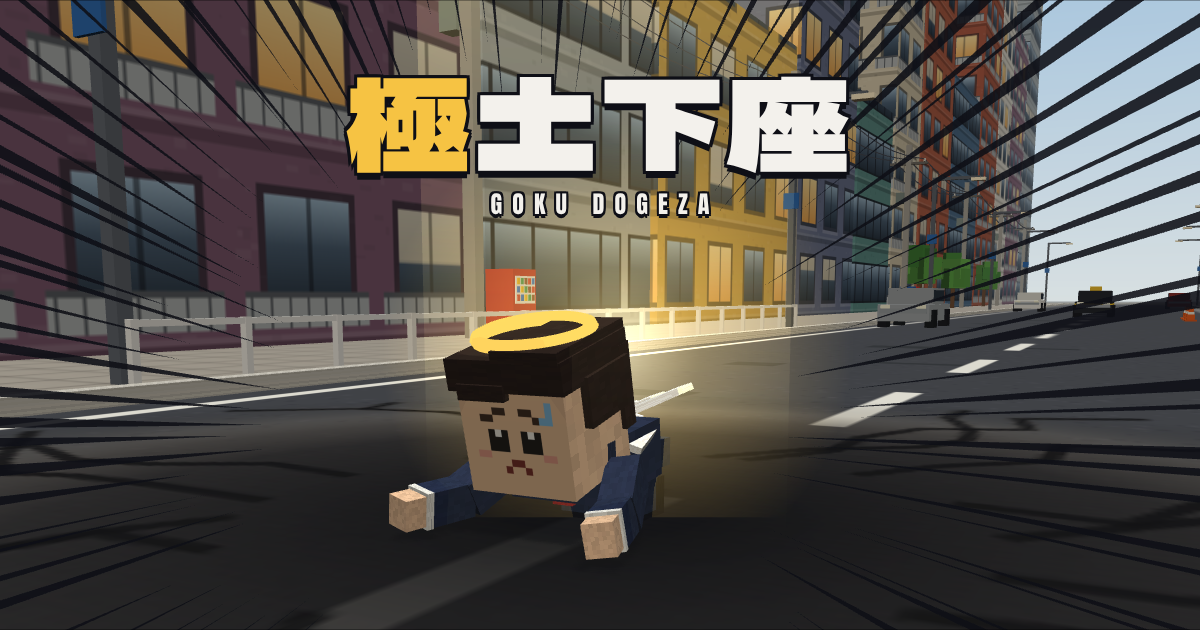
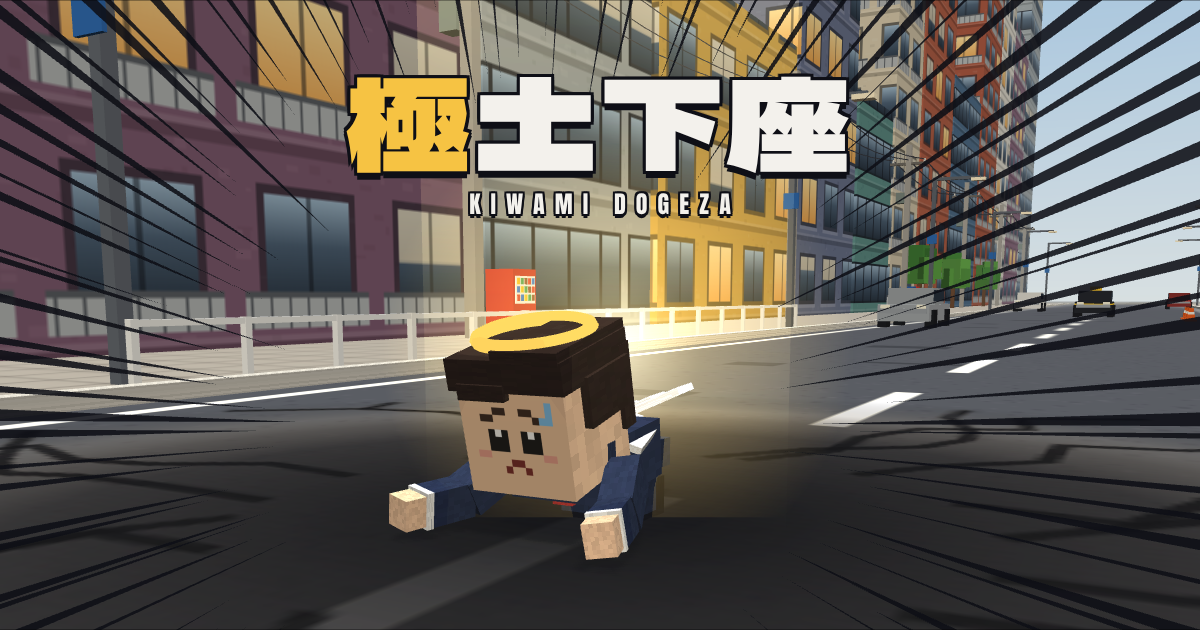
極土下座: iPhoneで動画が作成中のまま止まる問題を修正、作成中表示をループアニメに、英語表記をKIWAMI DOGEZAに
Claude-Session: https://claude.ai/code/session_014CPhRxmCdwCBmx7QtmJSFy

diff --git a/public/apps/goku-dogeza/index.html b/public/apps/goku-dogeza/index.html
@@ -53,7 +53,7 @@ button{font:inherit;color:inherit}
 .btn.primary{background:var(--gold)}
 .btn.small{font-size:14px;padding:8px 12px;min-width:0;box-shadow:0 3px 0 var(--ink)}
 .btn[disabled]{opacity:.45}
-.btn.wait,.btn.wait[disabled]{opacity:1;color:var(--paper);background:linear-gradient(90deg,#6b5520 var(--p,0%),#2c3044 var(--p,0%));box-shadow:0 3px 0 var(--ink);font-size:14px;letter-spacing:0}
+.btn.wait,.btn.wait[disabled]{opacity:1;color:var(--paper);background:linear-gradient(90deg,#6b5520 var(--p,0%),#2c3044 var(--p,0%));box-shadow:0 3px 0 var(--ink);font-size:13px;letter-spacing:0;position:relative;overflow:hidden;display:flex;align-items:center;justify-content:center;gap:6px;white-space:nowrap;padding-left:6px;padding-right:6px}.btn.wait>span{white-space:nowrap}.wdots{letter-spacing:-1px;display:inline-block;width:1.1em;text-align:left}.btn.wait::after{content:'';position:absolute;inset:0;background:linear-gradient(100deg,transparent 35%,rgba(255,255,255,.16) 50%,transparent 65%);background-size:250% 100%;animation:wshim 1.4s linear infinite;pointer-events:none}@keyframes wshim{from{background-position:120% 0}to{background-position:-120% 0}}.wspin{width:14px;height:14px;border:2.5px solid rgba(255,255,255,.28);border-top-color:#ffcc33;border-radius:50%;animation:wspin .8s linear infinite;flex:none;box-sizing:border-box}@keyframes wspin{to{transform:rotate(360deg)}}.wdots b{display:inline-block;font-weight:inherit;animation:wdot 1.2s ease-in-out infinite}.wdots b:nth-child(2){animation-delay:.2s}.wdots b:nth-child(3){animation-delay:.4s}@keyframes wdot{0%,60%,100%{opacity:.25;transform:translateY(0)}30%{opacity:1;transform:translateY(-3px)}}
 /* title */
 #scrTitle{justify-content:space-between}
 #scrCharge{pointer-events:auto;touch-action:none;cursor:pointer}
@@ -213,7 +213,7 @@ textarea.inp{resize:none;line-height:1.6}
 
   <section id="scrTitle" class="scr">
     <button class="btn small howbtn" id="btnHow" type="button">遊び方</button>
-    <div class="logo"><h1 class="ol"><b>極</b>土下座</h1><p class="sub ol2">GOKU DOGEZA</p></div>
+    <div class="logo"><h1 class="ol"><b>極</b>土下座</h1><p class="sub ol2">KIWAMI DOGEZA</p></div>
     <div class="tbottom">
       <div class="sin"><span class="lab">謝罪文</span><span class="txt" id="apoTxt">おまかせ</span><button class="btn small" id="btnApo" type="button">書く</button></div>
       <div class="tbtns"><button class="btn" id="btnFace" type="button">キャラを作る</button><button class="btn primary" id="btnStart" type="button">謝罪する</button></div>
@@ -344,7 +344,7 @@ textarea.inp{resize:none;line-height:1.6}
 <script>
 'use strict';
 /* =========================================================
-   極土下座  GOKU DOGEZA
+   極土下座  KIWAMI DOGEZA
    Three.js r128 / WebAudio / MediaRecorder
    ========================================================= */
 const $=s=>document.querySelector(s);
@@ -973,14 +973,16 @@ function recStart(){
     const st=REC.cv.captureStream(30);
     if(recDest){const at=recDest.stream.getAudioTracks()[0];if(at)st.addTrack(at);}
     REC.mime=recMime();
-    REC.mr=new MediaRecorder(st,REC.mime?{mimeType:REC.mime,videoBitsPerSecond:4500000}:undefined);
+    try{REC.mr=new MediaRecorder(st,REC.mime?{mimeType:REC.mime,videoBitsPerSecond:4500000}:undefined);}catch(e){REC.mr=new MediaRecorder(st);}
     REC.chunks=[];REC.mr.ondataavailable=e=>{if(e.data&&e.data.size)REC.chunks.push(e.data);};
     const tok=REC.tok;
-    REC.mr.onstop=()=>{if(tok!==REC.tok)return;const type=(REC.mr&&REC.mr.mimeType)||REC.mime||'video/webm';REC.raw=new Blob(REC.chunks,{type});REC.ext=type.indexOf('mp4')>=0?'mp4':'webm';REC.cap=false;buildHighlight(tok);};
+    REC.fin=false;REC.mr.onstop=()=>recFinalize(tok);REC.mr.onerror=()=>{REC.on=false;recFinalize(tok);};
     REC.t0=AC?AC.currentTime:performance.now()/1000;REC.cap=!!AC;
     REC.mr.start(250);REC.on=true;REC.flash=0;
   }catch(e){REC.on=false;REC.mr=null;}
 }
+/* 録画の後始末（onstopが来ない端末でも必ず一度だけ編集へ進む） */
+function recFinalize(tok){if(tok!==REC.tok||REC.fin)return;REC.fin=true;REC.on=false;const type=(REC.mr&&REC.mr.mimeType)||REC.mime||'video/webm';REC.raw=new Blob(REC.chunks,{type});REC.ext=type.indexOf('mp4')>=0?'mp4':'webm';REC.cap=false;buildHighlight(tok);}
 /* 見せ場の判定（区間はwithHL・リプレイ・リザルトで定義） */
 function recWant(){
   if(STATE==='perform'){const s=PF.segs[PF.i];return !!(s&&s.hl&&s.hl.some(w=>PF.t>=w[0]&&PF.t<=w[1]));}
@@ -990,7 +992,10 @@ function recWant(){
 function recTick(dt){if(!REC.on||!REC.mr)return;recDraw();const w=recWant(),t=recNow();
   if(w&&!REC.cur)REC.cur=[t,t];if(REC.cur){REC.cur[1]=t;if(!w){REC.marks.push(REC.cur);REC.cur=null;}}
   if(t>120)recStop();}
-function recStop(){if(REC.cur){REC.marks.push(REC.cur);REC.cur=null;}REC.on=false;if(REC.mr&&REC.mr.state!=='inactive'){try{REC.mr.stop();}catch(e){}}}
+function recStop(){if(REC.cur){REC.marks.push(REC.cur);REC.cur=null;}REC.on=false;if(!REC.mr||REC.fin)return;const tok=REC.tok;
+  if(REC.mr.state==='inactive'){recFinalize(tok);return;}
+  try{REC.mr.stop();}catch(e){recFinalize(tok);return;}
+  setTimeout(()=>recFinalize(tok),4000);}
 function pcmSlice(a,b){if(!AC||!REC.pL.length||REC.pcm0<-1e5)return null;const sr=AC.sampleRate,base=REC.pcm0<0?0:REC.pcm0;
   const total=REC.pL.reduce((n,c)=>n+c.length,0),s0=Math.max(0,Math.round((a-base)*sr)),s1=Math.min(total,Math.round((b-base)*sr));if(s1-s0<64)return null;
   const buf=AC.createBuffer(2,s1-s0,sr),L=buf.getChannelData(0),R=buf.getChannelData(1);let off=0,w=0;
@@ -999,6 +1004,7 @@ function pcmSlice(a,b){if(!AC||!REC.pL.length||REC.pcm0<-1e5)return null;const s
 /* 本番の全編録画から見せ場だけを切り出して、15秒以内の動画に編集し直す */
 async function buildHighlight(tok){
   const raw=REC.raw;if(!raw||!raw.size){onVideoReady();return;}
+  let fin=false;const wd=setTimeout(()=>{if(fin||tok!==REC.tok)return;fin=true;REC.tok++;REC.blob=raw;REC.editErr='timeout';onVideoReady();},25000);
   const marks=REC.marks.filter(m=>m[1]-m[0]>0.12).map(m=>[m[0],m[1]]);
   if(!marks.length){REC.blob=raw;onVideoReady();return;}
   // 尺の調整：①前半の各カットを比例で詰める（最短0.45秒）②リザルトは頭側だけ詰める（ドドン以降は守る）③それでも長ければ古いカットから落とす
@@ -1016,7 +1022,7 @@ async function buildHighlight(tok){
     if(!REC.ecv){REC.ecv=cvs(540,960);REC.ecx=REC.ecv.getContext('2d');}
     const ex=REC.ecx,st=REC.ecv.captureStream(30);let dest=null;
     if(AC&&REC.pL.length){dest=AC.createMediaStreamDestination();dest.stream.getAudioTracks().forEach(t=>st.addTrack(t));}
-    const mr=new MediaRecorder(st,REC.mime?{mimeType:REC.mime,videoBitsPerSecond:4500000}:undefined),ch=[];mr.ondataavailable=e=>{if(e.data&&e.data.size)ch.push(e.data);};
+    let mr;try{mr=new MediaRecorder(st,REC.mime?{mimeType:REC.mime,videoBitsPerSecond:4500000}:undefined);}catch(e){mr=new MediaRecorder(st);}const ch=[];mr.ondataavailable=e=>{if(e.data&&e.data.size)ch.push(e.data);};
     const stopped=new Promise(r=>{mr.onstop=r;});
     const raf=()=>new Promise(r=>requestAnimationFrame(r));
     const seekTo=(v,t)=>new Promise(r=>{let d=false;const f=()=>{if(d)return;d=true;v.removeEventListener('seeked',f);r();};v.addEventListener('seeked',f);v.currentTime=Math.max(0,t);setTimeout(f,2500);});
@@ -1033,10 +1039,12 @@ async function buildHighlight(tok){
       if(marks[i+2])ready[i%2]=seekTo(v,marks[i+2][0]);                // this player now prepares the cut after next
       postBtnWait(Math.min(99,5+Math.round((i+1)/marks.length*94)));
       if(el()>REC_MAX)break;}
-    mr.stop();await stopped;URL.revokeObjectURL(vurl);
+    try{mr.requestData();}catch(e){}try{mr.stop();}catch(e){}await Promise.race([stopped,new Promise(r=>setTimeout(r,3000))]);URL.revokeObjectURL(vurl);
     if(tok!==REC.tok)return;
     REC.blob=new Blob(ch,{type:mr.mimeType||raw.type});REC.editDur=el();
   }catch(e){if(tok!==REC.tok)return;REC.blob=raw;REC.editErr=String(e);}
+  if(fin)return;fin=true;clearTimeout(wd);
+  if(!REC.blob||REC.blob.size<20000)REC.blob=raw;                 // 編集版が壊れていたら全編を使う
   onVideoReady();
 }
 function recDraw(){
@@ -1539,8 +1547,10 @@ function startResult(){
   $('#rRank').textContent=RANKS[r];$('#rTitle').textContent=TITLES[r];$('#rComment').textContent='「'+PF.comment+'」';$('#rPow').textContent=pw;
   $('#stamp').className='stamp';$('#rcard').className='rcard';$('#rBlur').classList.remove('on');$('#rTap').hidden=false;
   const big=$('#rApoBig');big.hidden=true;big.classList.remove('in');
-  if(recSupported())postBtnWait(0);else postBtnReady();
-  if(!recSupported())$('#rNote').textContent='この端末では動画の作成に対応していません。テキストで投稿できます。';
+  const recOK=recSupported()&&!!REC.mr;
+  if(recOK)postBtnWait(0);else postBtnReady();
+  if(!recOK)$('#rNote').textContent='この端末では動画の作成に対応していません。テキストで投稿できます。';
+  const rt=REC.tok;clearTimeout(REC.wd);if(recOK)REC.wd=setTimeout(()=>{if(rt!==REC.tok||!$('#btnPost').classList.contains('wait'))return;REC.tok++;REC.blob=REC.blob||REC.raw;onVideoReady();},60000);
   $('#btnSave').disabled=true;$('#rVid').removeAttribute('src');
   $('#lbTop').classList.remove('on');$('#lbBot').classList.remove('on');
   OV.res={rank:RANKS[r],title:TITLES[r],comment:PF.comment,pow:pw};OV.resT=0;OV.lb=0;
@@ -1556,7 +1566,7 @@ function updResult(dt){const S=PF.segs[PF.segs.length-1];OV.resT+=dt;const t=OV.
   S.headK=eIO(seg(t,R_UP0,R_UP1));finalUpdate(S,S.TI+1.2,'c3');if(REC.on&&t>R_HIT+RES_REC)recStop();
   const A=OV.apo;if(!A)return;if(!A.hit&&t>=R_HIT)resultHit();if(!A.done&&t>=A.end)resultDone();}
 $('#rTap').addEventListener('pointerdown',e=>{e.preventDefault();const A=OV.apo;if(!A||A.done)return;if(OV.resT<R_HIT)OV.resT=R_HIT;else OV.resT=Math.max(OV.resT,A.end);});
-function postBtnWait(pct){const b=$('#btnPost');b.disabled=true;b.classList.add('wait');b.style.setProperty('--p',(pct||0)+'%');b.textContent=pct?`動画を作成中… ${pct}%`:'動画を作成中…';
+function postBtnWait(pct){const b=$('#btnPost');b.disabled=true;b.classList.add('wait');b.style.setProperty('--p',(pct||0)+'%');b.innerHTML='<i class="wspin"></i><span>動画を作成中<span class="wdots"><b>.</b><b>.</b><b>.</b></span></span>';b.setAttribute('aria-label','動画を作成中 '+(pct||0)+'%');
   $('#rNote').textContent='X投稿用のハイライト動画を作成中です。できあがると「Xに投稿」が押せるようになります。';}
 function postBtnReady(){const b=$('#btnPost');b.disabled=false;b.classList.remove('wait');b.style.removeProperty('--p');b.textContent='Xに投稿';}
 function onVideoReady(){postBtnReady();
